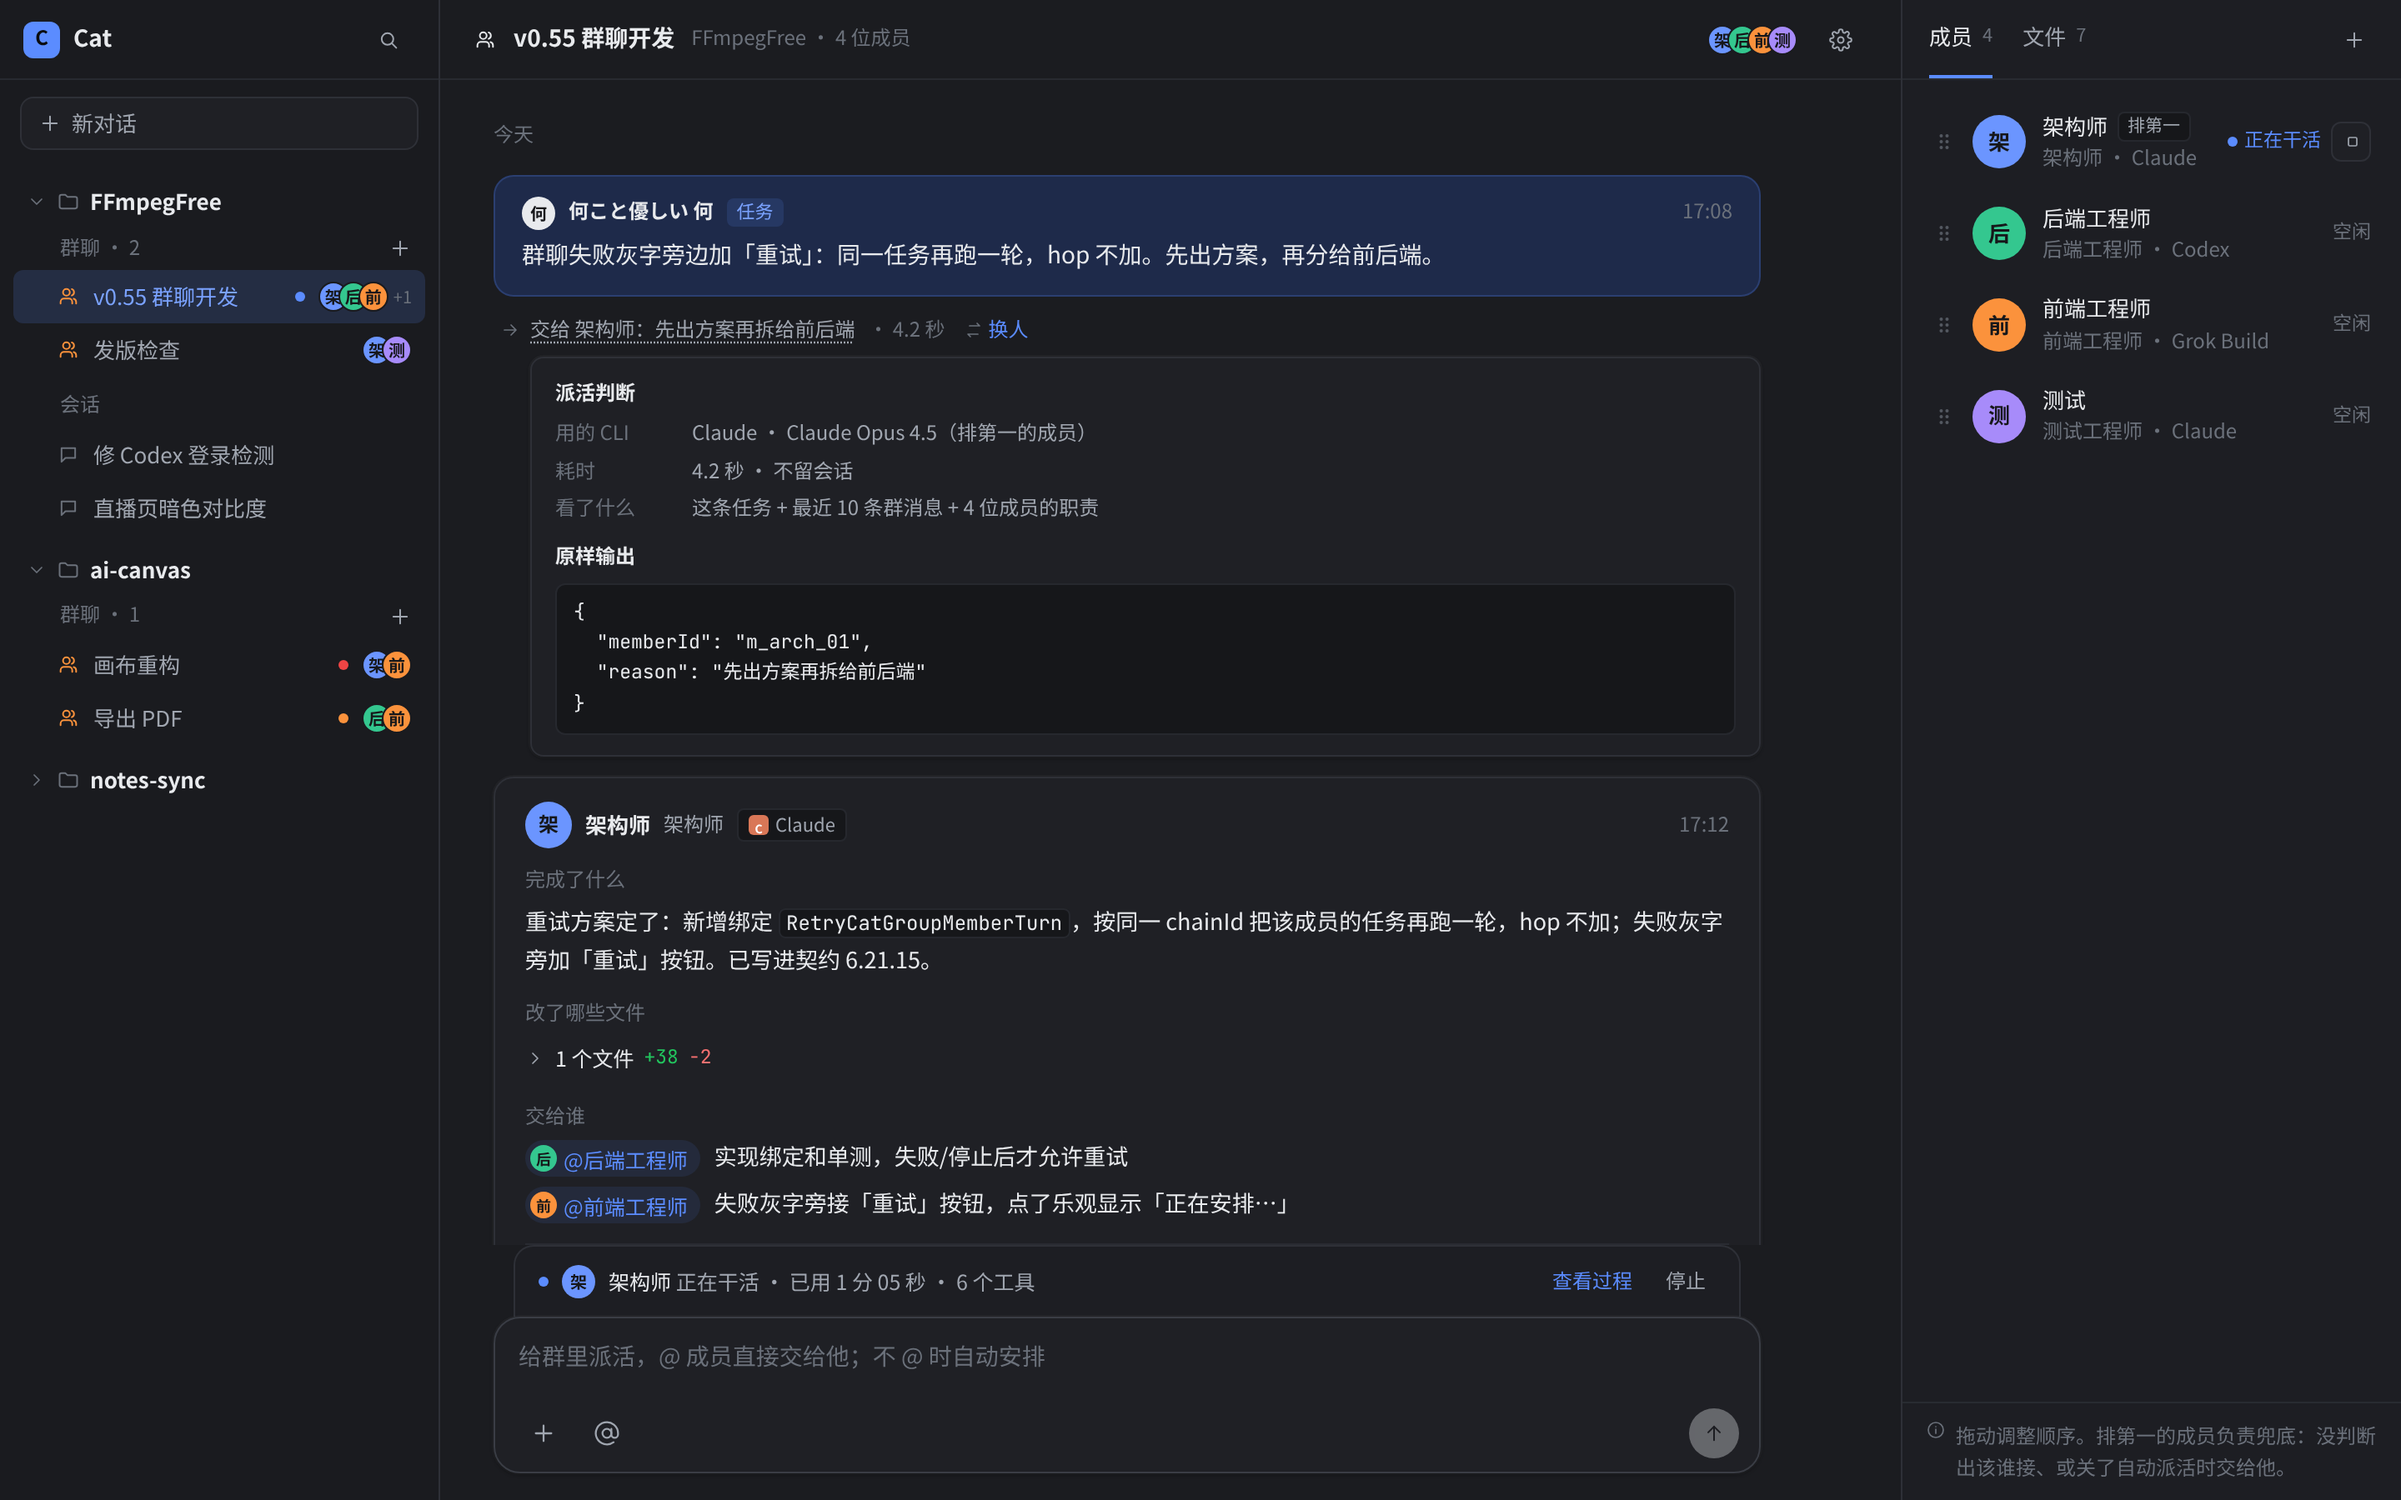
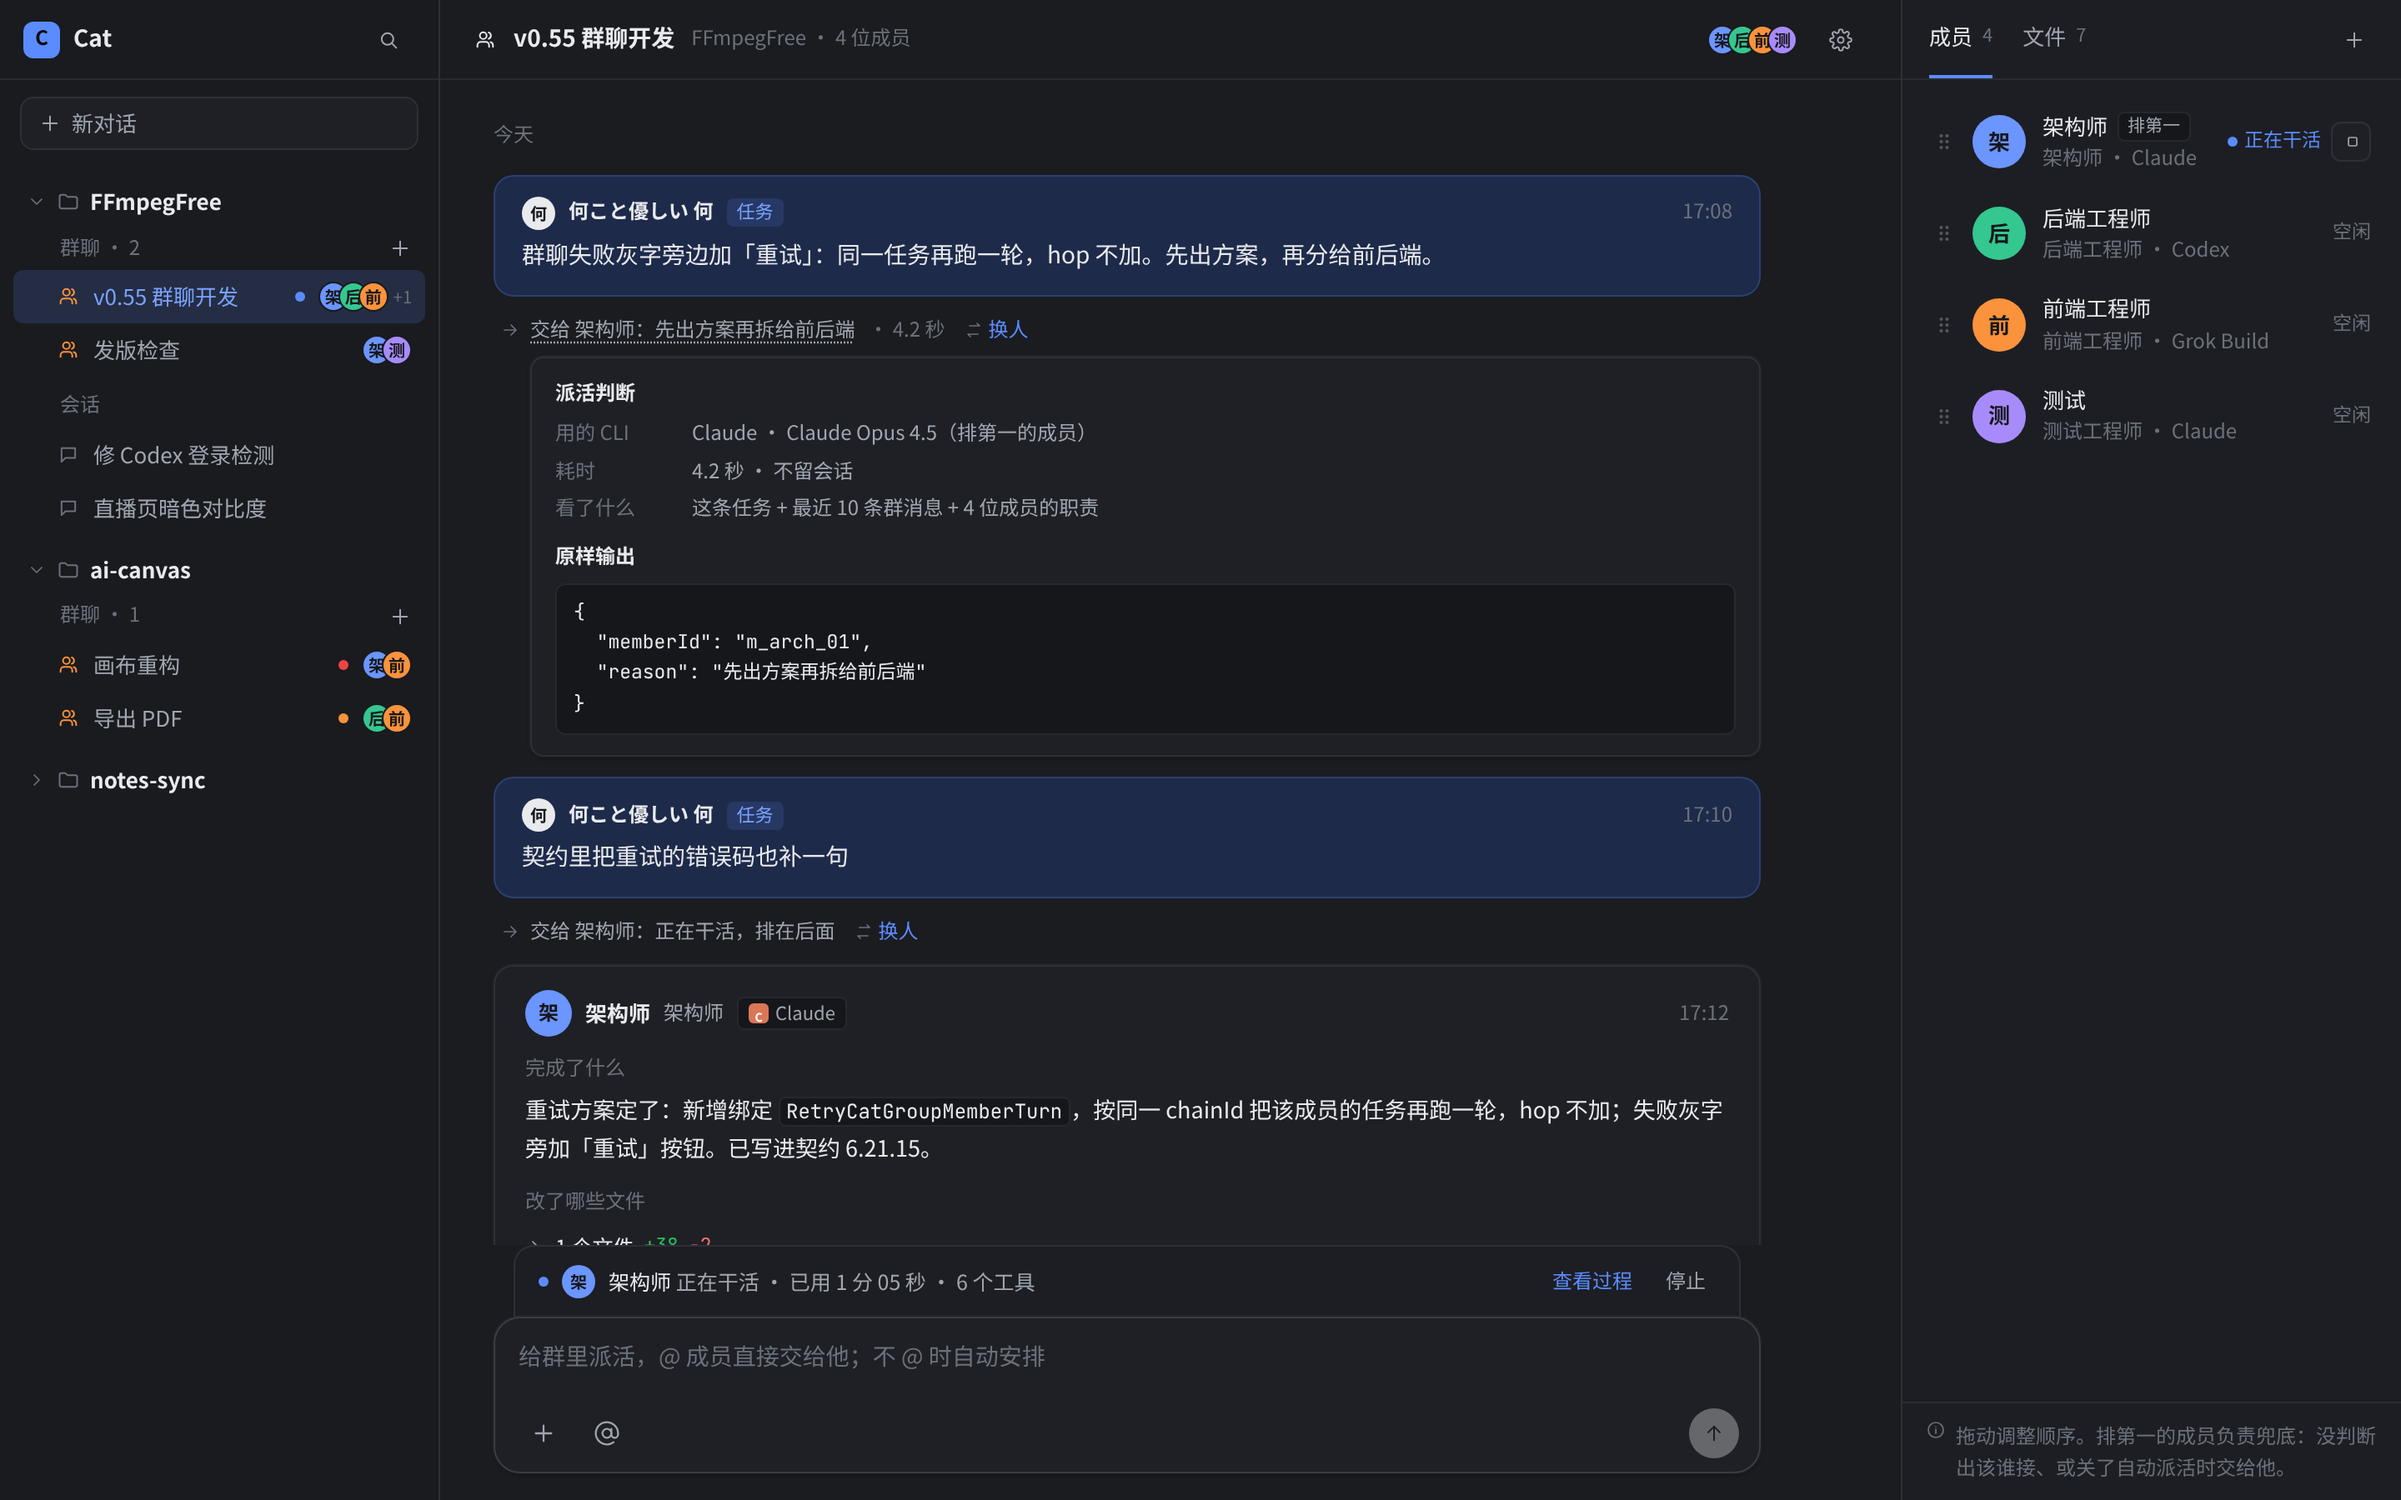
design(cat): 设计说明 v0.2.2 排队文案（产品 10-17）；members 排队中、dispatch 排队灰字，两场景重拍

Changed region(s): [[0.1875, 0.4978, 0.75, 0.8089], [0.6562, 0.7156, 0.7188, 0.7467]]

diff --git a/proto/cat-project-group/g.js b/proto/cat-project-group/g.js
@@ -139,12 +139,12 @@ function composer(o = {}) {
 const centerWrap = (head, body, bottom, extra = '') => `<main class="center">${head}<div class="stream"><div class="col">${body}</div></div>${bottom}${extra}</main>`;
 
 /* ---------- 右栏 ---------- */
-const ST = { idle: '<span class="st idle">空闲</span>', run: '<span class="st run"><span class="pulse"></span>正在干活</span>', q: '<span class="st q">排队中</span>', ov: '<span class="st ov">越界待处理</span>', stop: '<span class="st stop">已停止</span>', fail: '<span class="st fail">没完成</span>' };
+const ST = { idle: '<span class="st idle">空闲</span>', run: '<span class="st run"><span class="pulse"></span>正在干活</span>', q: '<span class="st q">排队中</span>', qn: '<span class="st q">排队中 · 前面还有 1 个</span>', ov: '<span class="st ov">越界待处理</span>', stop: '<span class="st stop">已停止</span>', fail: '<span class="st fail">没完成</span>' };
 function memRow(k, st, o = {}) {
   const m = M[k];
   return `<div class="mem ${o.sel ? 'sel' : ''} ${o.drag ? 'drag' : ''}">${ic('grip', 's grip')}<div class="av m${m.c}">${m.n[0]}${st === 'ov' ? '<span class="od"></span>' : ''}</div>
-  <div class="info"><div class="l1">${m.n}${o.first ? '<span class="first">排第一</span>' : ''}</div><div class="l2">${m.t} · ${CLI[m.cli][0]}</div></div>
-  <div class="mst">${ST[st]}${st === 'run' || st === 'q' ? `<button class="stopb" title="停止">${ic('stop', 'xs')}</button>` : ''}</div></div>`;
+  <div class="info"><div class="l1">${m.n}${o.first ? '<span class="first">排第一</span>' : ''}</div><div class="l2">${st === 'qn' ? ST.qn : `${m.t} · ${CLI[m.cli][0]}`}</div></div>
+  <div class="mst">${st === 'qn' ? '' : ST[st]}${st === 'run' || st === 'q' || st === 'qn' ? `<button class="stopb" title="停止">${ic('stop', 'xs')}</button>` : ''}</div></div>`;
 }
 function charter(k, o = {}) {
   const m = M[k];
@@ -253,7 +253,7 @@ SC.main = () => ({
 });
 SC.members = () => ({
   center: centerWrap(chead(), mainStream(), composer({ working: WORK })),
-  right: right({ st: { a: 'idle', b: 'idle', f: 'ov', q: 'run' }, order: ['a', 'f', 'b', 'q'], drag: 'f', dropAt: 1, sel: 'b', charter: 1 }),
+  right: right({ st: { a: 'idle', b: 'qn', f: 'ov', q: 'run' }, order: ['a', 'f', 'b', 'q'], drag: 'f', dropAt: 1, sel: 'b', charter: 1 }),
 });
 SC.mention = () => {
   const pop = `<div class="pop" style="left:60px;bottom:118px;width:300px"><div class="pop-t">@ 成员</div>
@@ -301,6 +301,8 @@ SC.dispatch = () => ({
   "memberId": "m_arch_01",
   "reason": "先出方案再拆给前后端"
 }</pre></div>
+    ${task('契约里把重试的错误码也补一句', '17:10')}
+    ${gl('交给 架构师：正在干活，排在后面', { acts: [swapBtn()] })}
     ${R_ARCH()}
     ${task('再改一下，按钮文案用「重试」两个字就行', '17:15')}
     ${gl('交给 架构师：接着上一条', { acts: [swapBtn()] })}

diff --git a/proto/cat-project-group/g.css b/proto/cat-project-group/g.css
@@ -275,3 +275,8 @@ code{font-family:var(--ff-font-mono);font-size:12px;background:var(--cat-code-bg
 .flist{overflow:visible}
 .frow:first-child{border-radius:7px 7px 0 0}.frow:last-child{border-radius:0 0 7px 7px}.frow:only-child{border-radius:7px}
 .frow .tip{top:32px;right:0}
+/* v0.2.2：右栏排队文案较长，名字不折行；右栏职责卡头部允许按钮换到第二行 */
+.mem .l1{white-space:nowrap;overflow:hidden;text-overflow:ellipsis}
+.mem .mst .st{white-space:nowrap}
+.right .ch-h{flex-wrap:wrap;row-gap:4px}
+.right .ch-h .nm,.right .ch-h .muted{white-space:nowrap}

diff --git a/proto/cat-project-group/index.html b/proto/cat-project-group/index.html
@@ -3,7 +3,7 @@
 <head>
 <meta charset="utf-8">
 <meta name="viewport" content="width=device-width,initial-scale=1">
-<title>Cat · 项目群聊 原型 v0.2.1</title>
+<title>Cat · 项目群聊 原型 v0.2.2</title>
 <link rel="stylesheet" href="../../frontend/src/styles/tokens.css">
 <link rel="stylesheet" href="../../frontend/src/styles/cat-tokens.css">
 <link rel="stylesheet" href="g.css">

diff --git a/proto/Cat-项目群聊-设计说明-v0.2.2.md b/proto/Cat-项目群聊-设计说明-v0.2.2.md
@@ -1,8 +1,8 @@
-# Cat · 项目群聊 设计说明 v0.2.1
+# Cat · 项目群聊 设计说明 v0.2.2
 
-> UI 设计工程师 · 2026-10-17 · 产品 PASS（v0.2）+ 两处润色（v0.2.1）
+> UI 设计工程师 · 2026-10-17 · 产品 PASS（v0.2）+ 两处润色（v0.2.1）+ 排队文案（v0.2.2，产品 10-17）
 > 对齐契约 `docs/architecture/contract.md` **6.21.12–6.21.16**（汇报字段以 6.21.15 为准，派活灰字以 6.21.16 为准）。
-> 原型：`proto/cat-project-group/index.html?s=<场景>&theme=dark`；截图：`proto/cat-project-group/shots/`。
+> 原型：`proto/cat-project-group/index.html?s=<场景>&theme=dark`；截图：`proto/cat-project-group/shots/`；正式图标：`proto/cat-project-group/icons/`（群 / 换人 / 分派）。
 > 本版为 10-17 本地 /workspace 被清后的重建版，内容与已过审的 v0.2.1 一致。
 
 ## 0. 变更记录
@@ -11,6 +11,7 @@
 | v0.1 | 线框：项目下群聊、建群、职责规范卡、群消息流（实时流式卡片） |
 | v0.2 | 老板 10-17：群里只发汇报不流式 → 主视图改为「工作汇报群」；干活条移到输入框上方；查看过程抽屉；失败/停止灰字；越界+撤销；产品 PASS |
 | v0.2.1 | 产品不阻塞两项：输入框去掉「发给: 全体」（只靠 @ 选人）；成员头像色改正式 token `--cat-member-1…5` |
+| v0.2.2 | **来源：产品 10-17**（前端走查 `fe/cat-groupchat-v055@4da2d70` 时定）：① 排队文案：右栏「排队中 · 前面还有 {n} 个」，派活灰字「交给 {成员}：正在干活，排在后面」；② 成员状态统一叫「正在干活」，不用「干活中」。原型 members 场景后端工程师改为排队中、dispatch 场景加一条排队灰字，两场景浅暗图重拍。排队数据等契约 v0.55.6。 |
 
 ## 1. 原则
 1. **工作汇报群，不是聊天流**：中栏是任务卡 → 派活灰字 → 汇报卡，按时间自上而下；不做左右气泡。
@@ -103,6 +104,7 @@
 | 无下一位 | {成员} 已完成，没有交给下一位 |
 | hop 到 6 | 已连续转交 6 次，先停在这里。需要继续请 @ 对应成员。 |
 | 换人 | 已换人：{原} → {新} |
+| 目标成员正在干活（排队，v0.2.2） | 交给 {成员}：正在干活，排在后面 |
 
 - 派活类灰字行尾「换人」（下拉选成员）。换人时原成员若在跑 → 停下，状态「已停止」。
 - 点灰字展开详情小卡：看了这条 + 最近 10 条 + 成员职责；原样 JSON 输出；CLI / 耗时。
@@ -121,6 +123,8 @@
 ## 9. 右栏
 - tab「成员」「文件」。
 - 成员：头像 · 名字 · 职位 · CLI · 状态（空闲 / 正在干活 / 排队中 / 越界橙点）· 单停；拖动排序；底部说明「排第一的成员负责兜底：没判断出该谁接、或关了自动派活时交给他」。
+- 状态文案（v0.2.2，逐字）：「空闲」「正在干活」（不用「干活中」）「排队中 · 前面还有 {n} 个」「越界待处理」「已停止」「没完成」。
+- 排队中：文案较长，放在名字下面第二行（替换「职位 · CLI」），颜色 `--cat-warn-text`；右侧保留单停按钮（取消排队）。`{n}` = 排在他前面的任务数，从 1 起；数据等契约 v0.55.6。
 - 群设置：群名、成员排序、开关「没 @ 人时自动派活」（默认开）、删除群。
 
 ## 10. 待对齐 → 已定（契约 6.21.15 ②）

diff --git a/proto/cat-project-group/README.md b/proto/cat-project-group/README.md
@@ -1,7 +1,8 @@
-# Cat 项目群聊 · 高保真原型 v0.2.1
+# Cat 项目群聊 · 高保真原型 v0.2.2
 
-对齐契约 `docs/architecture/contract.md` 6.21.12–6.21.16；设计说明见 `../Cat-项目群聊-设计说明-v0.2.1.md`。
+对齐契约 `docs/architecture/contract.md` 6.21.12–6.21.16；设计说明见 `../Cat-项目群聊-设计说明-v0.2.2.md`。
 10-17 本地 /workspace 被清后重建，内容与产品已 PASS 的 v0.2.1 一致。
+v0.2.2（产品 10-17）：补排队文案「排队中 · 前面还有 {n} 个」「交给 {成员}：正在干活，排在后面」；members、dispatch 两场景已重拍。正式图标见 `icons/`。
 
 - 打开：`index.html?s=<场景>&theme=dark`（直接用浏览器打开文件即可，样式引用 `frontend/src/styles/tokens.css` + `cat-tokens.css`）
 - 场景：list create rolegen main members mention working report error dispatch swap overstep overstep-undo overstep-result session settings narrow-drawer narrow-single
